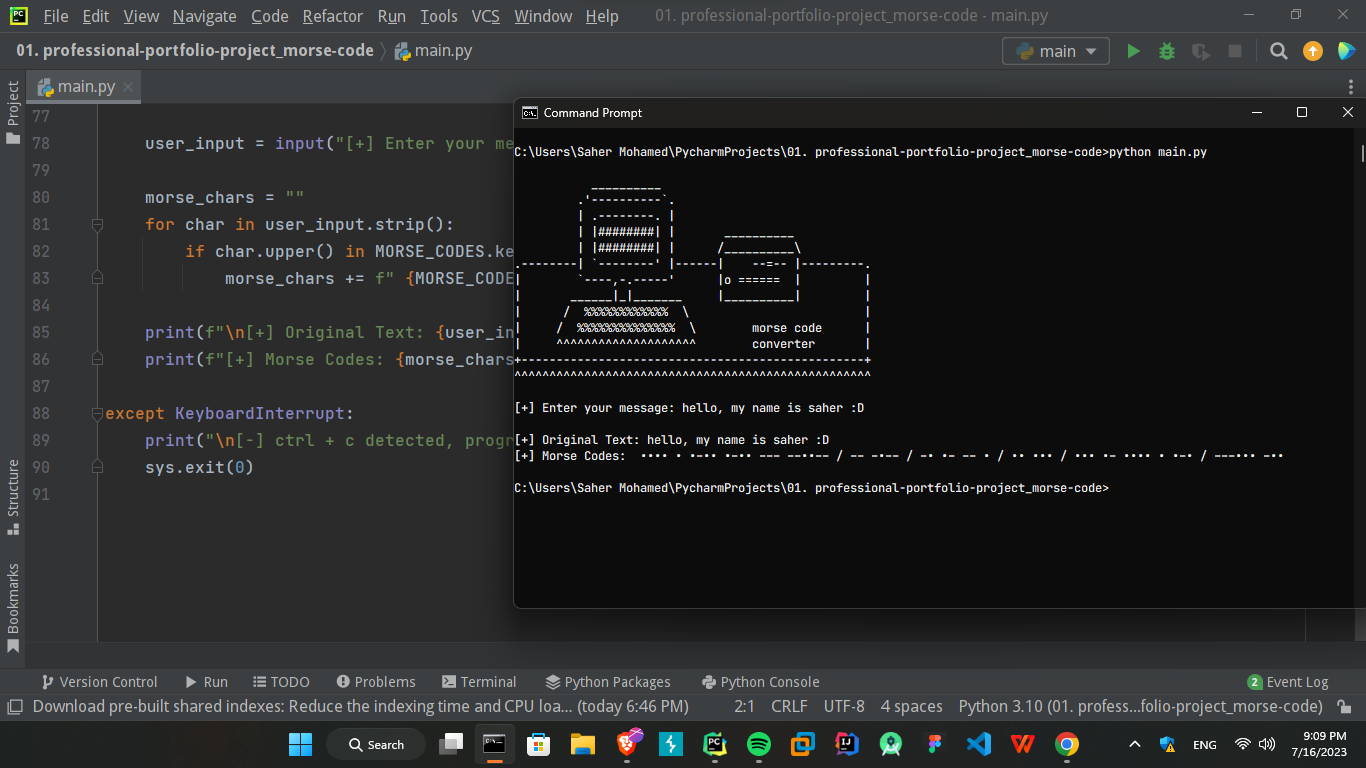
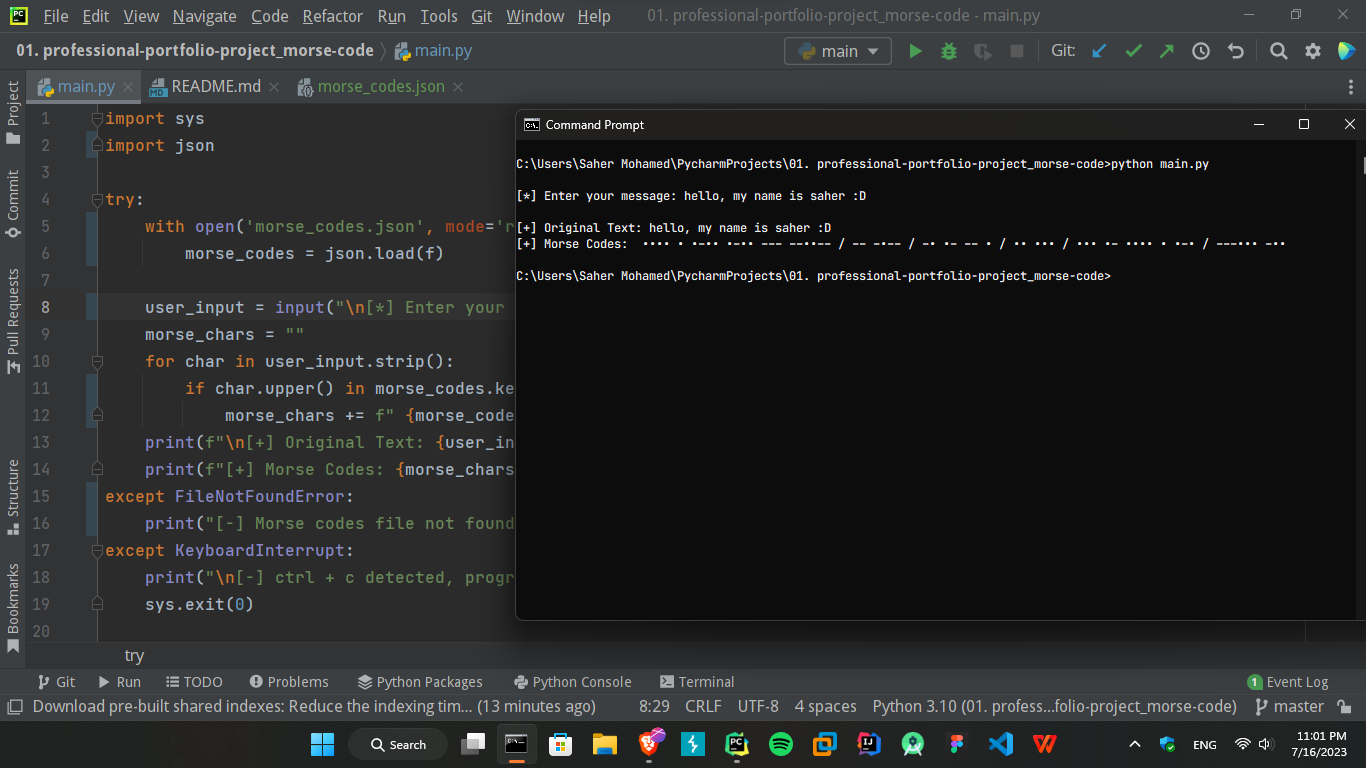
Update main.py and adding morse_codes.json file

diff --git a/main.py b/main.py
@@ -1,90 +1,19 @@
 import sys
-
-MORSE_CODES = {
-    "A": "•–",
-    "B": "–•••",
-    "C": "–•–•",
-    "D": "–••",
-    "E": "•",
-    "F": "••–•",
-    "G": "––•",
-    "H": "••••",
-    "I": "••",
-    "J": "•–––",
-    "K": "–•–",
-    "L": "•–••",
-    "M": "––",
-    "N": "–•",
-    "O": "–––",
-    "P": "•–•••",
-    "Q": "––•–",
-    "R": "•–•",
-    "S": "•••",
-    "T": "–",
-    "U": "••–",
-    "V": "•••–",
-    "W": "•––",
-    "X": "–••–",
-    "Y": "–•––",
-    "Z": "––••",
-    "0": "–––––",
-    "1": "•––––",
-    "2": "••–––",
-    "3": "•••––",
-    "4": "••••–",
-    "5": "•••••",
-    "6": "–••••",
-    "7": "––•••",
-    "8": "–––••",
-    "9": "––––•",
-    ".": "•–•–•–",
-    ",": "––••––",
-    "?": "••––••",
-    "'": "•–––•",
-    "!": "––••––",
-    "/": "–••–•",
-    "(": "–•––•–",
-    ")": "–•––•–",
-    "&": "•–•••",
-    ":": "–––•••",
-    ";": "–•–•–•",
-    "=": "–•••–",
-    "+": "•–•–•",
-    "-": "–••••–",
-    "_": "••––•–",
-    "\"": "•–••–•",
-    "$": "•••–•–",
-    "@": "•––•–•",
-    " ": "/"
-}
+import json
 
 try:
-    print('''
-           __________                                 
-         .'----------`.                              
-         | .--------. |                             
-         | |########| |       __________              
-         | |########| |      /__________\             
-.--------| `--------' |------|    --=-- |---------.
-|        `----,-.-----'      |o ======  |         | 
-|       ______|_|_______     |__________|         | 
-|      /  %%%%%%%%%%%%  \                         | 
-|     /  %%%%%%%%%%%%%%  \        morse code      | 
-|     ^^^^^^^^^^^^^^^^^^^^        converter       | 
-+-------------------------------------------------+
-^^^^^^^^^^^^^^^^^^^^^^^^^^^^^^^^^^^^^^^^^^^^^^^^^^^
-''')
+    with open('morse_codes.json', mode='r', encoding='UTF-8') as f:
+        morse_codes = json.load(f)
 
-    user_input = input("[+] Enter your message: ")
-
+    user_input = input("\n[*] Enter your message: ")
     morse_chars = ""
     for char in user_input.strip():
-        if char.upper() in MORSE_CODES.keys():
-            morse_chars += f" {MORSE_CODES.get(char.upper())}"
-
+        if char.upper() in morse_codes.keys():
+            morse_chars += f" {morse_codes.get(char.upper())}"
     print(f"\n[+] Original Text: {user_input}")
     print(f"[+] Morse Codes: {morse_chars}")
-
+except FileNotFoundError:
+    print("[-] Morse codes file not found.")
 except KeyboardInterrupt:
     print("\n[-] ctrl + c detected, program terminated.")
     sys.exit(0)
